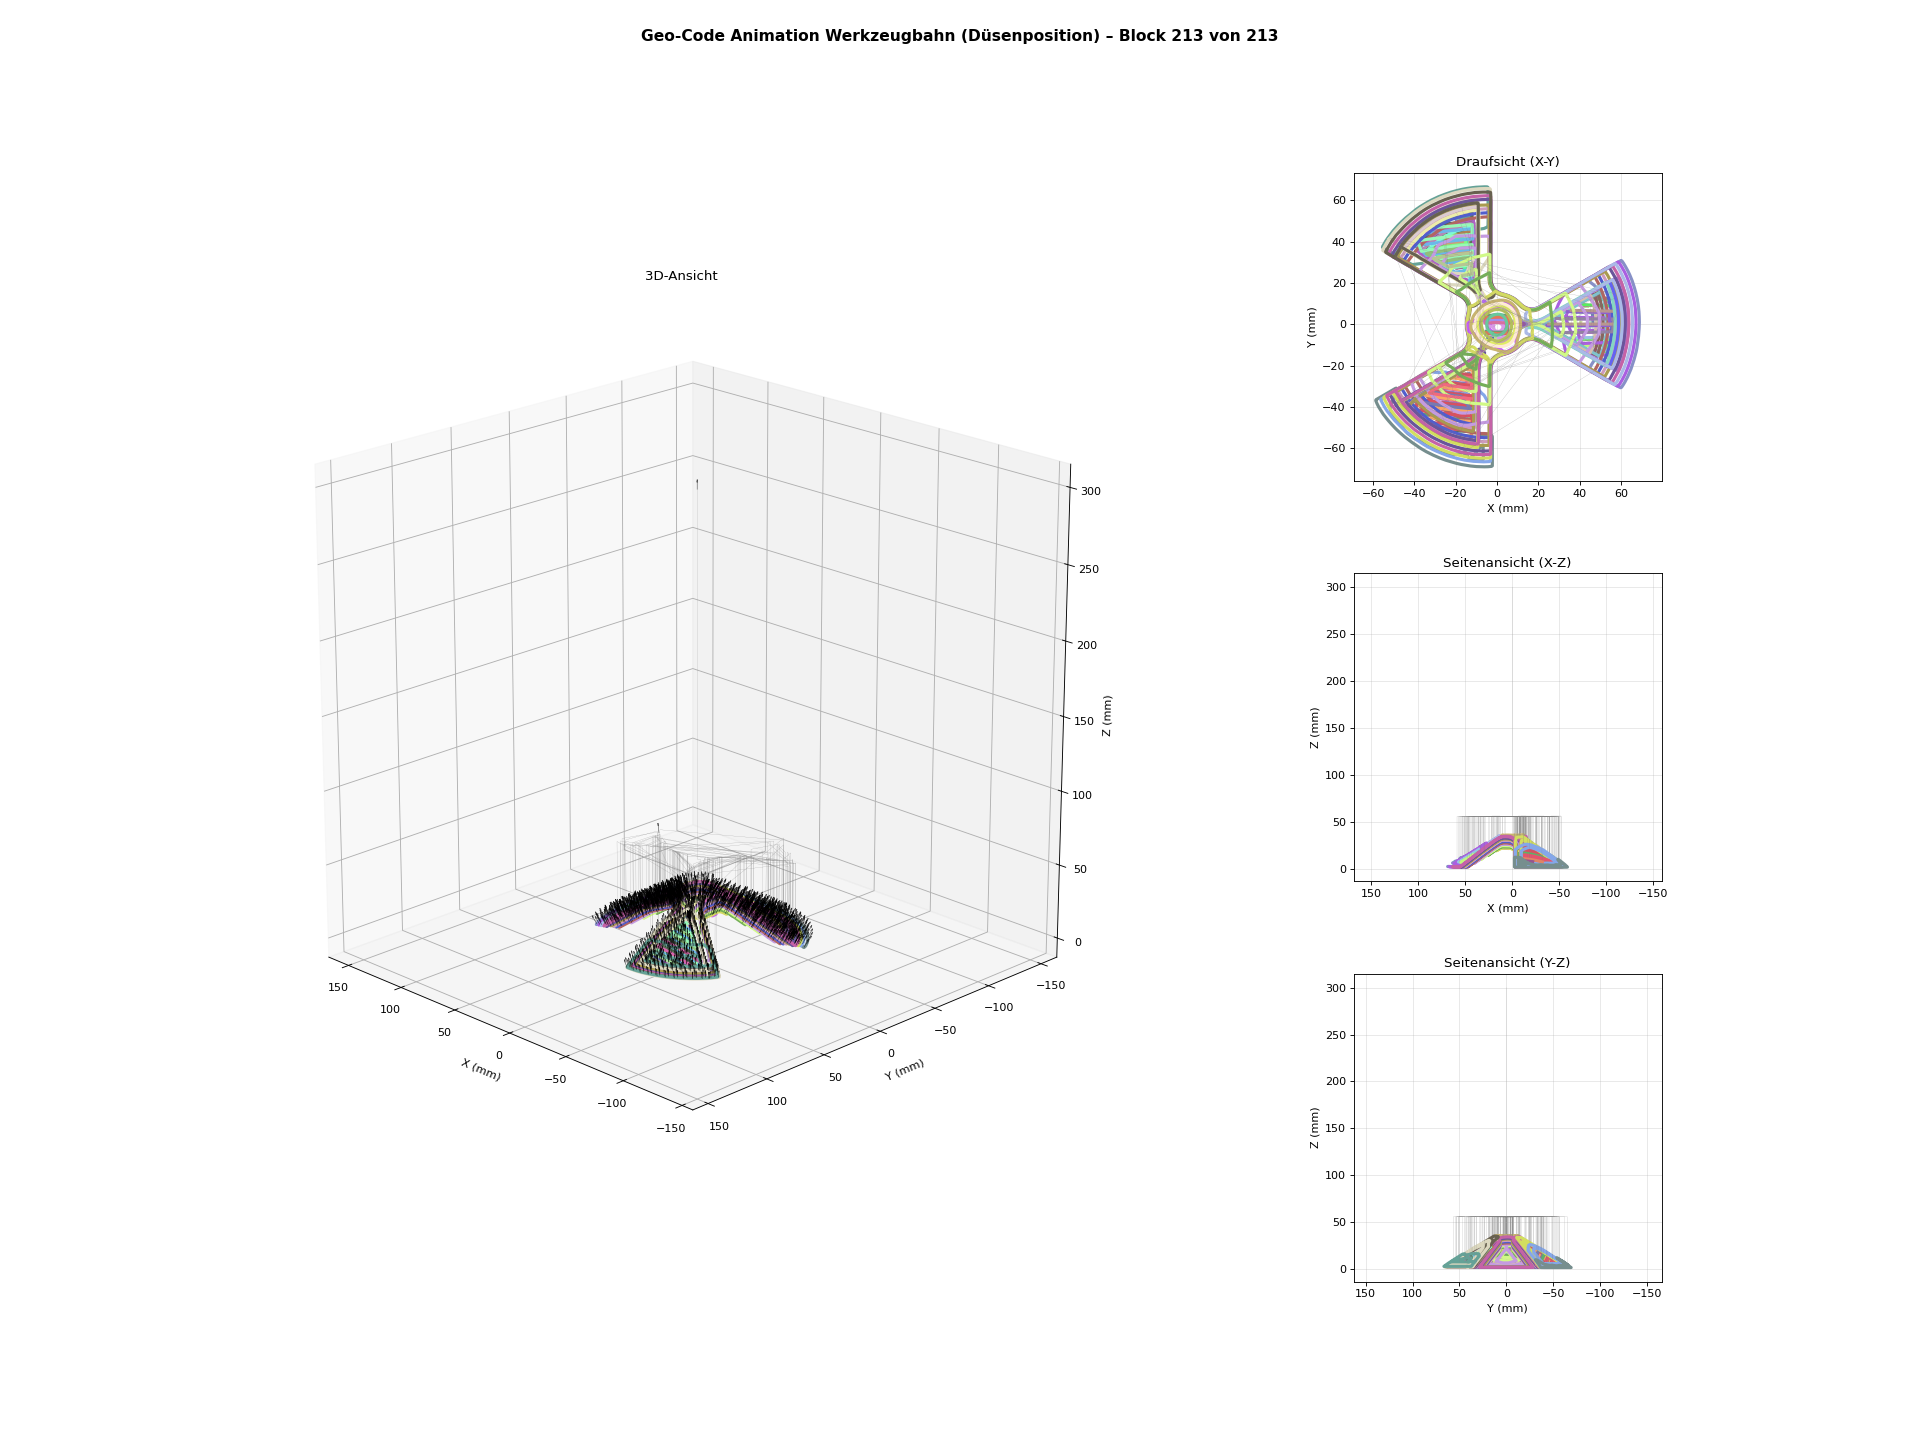
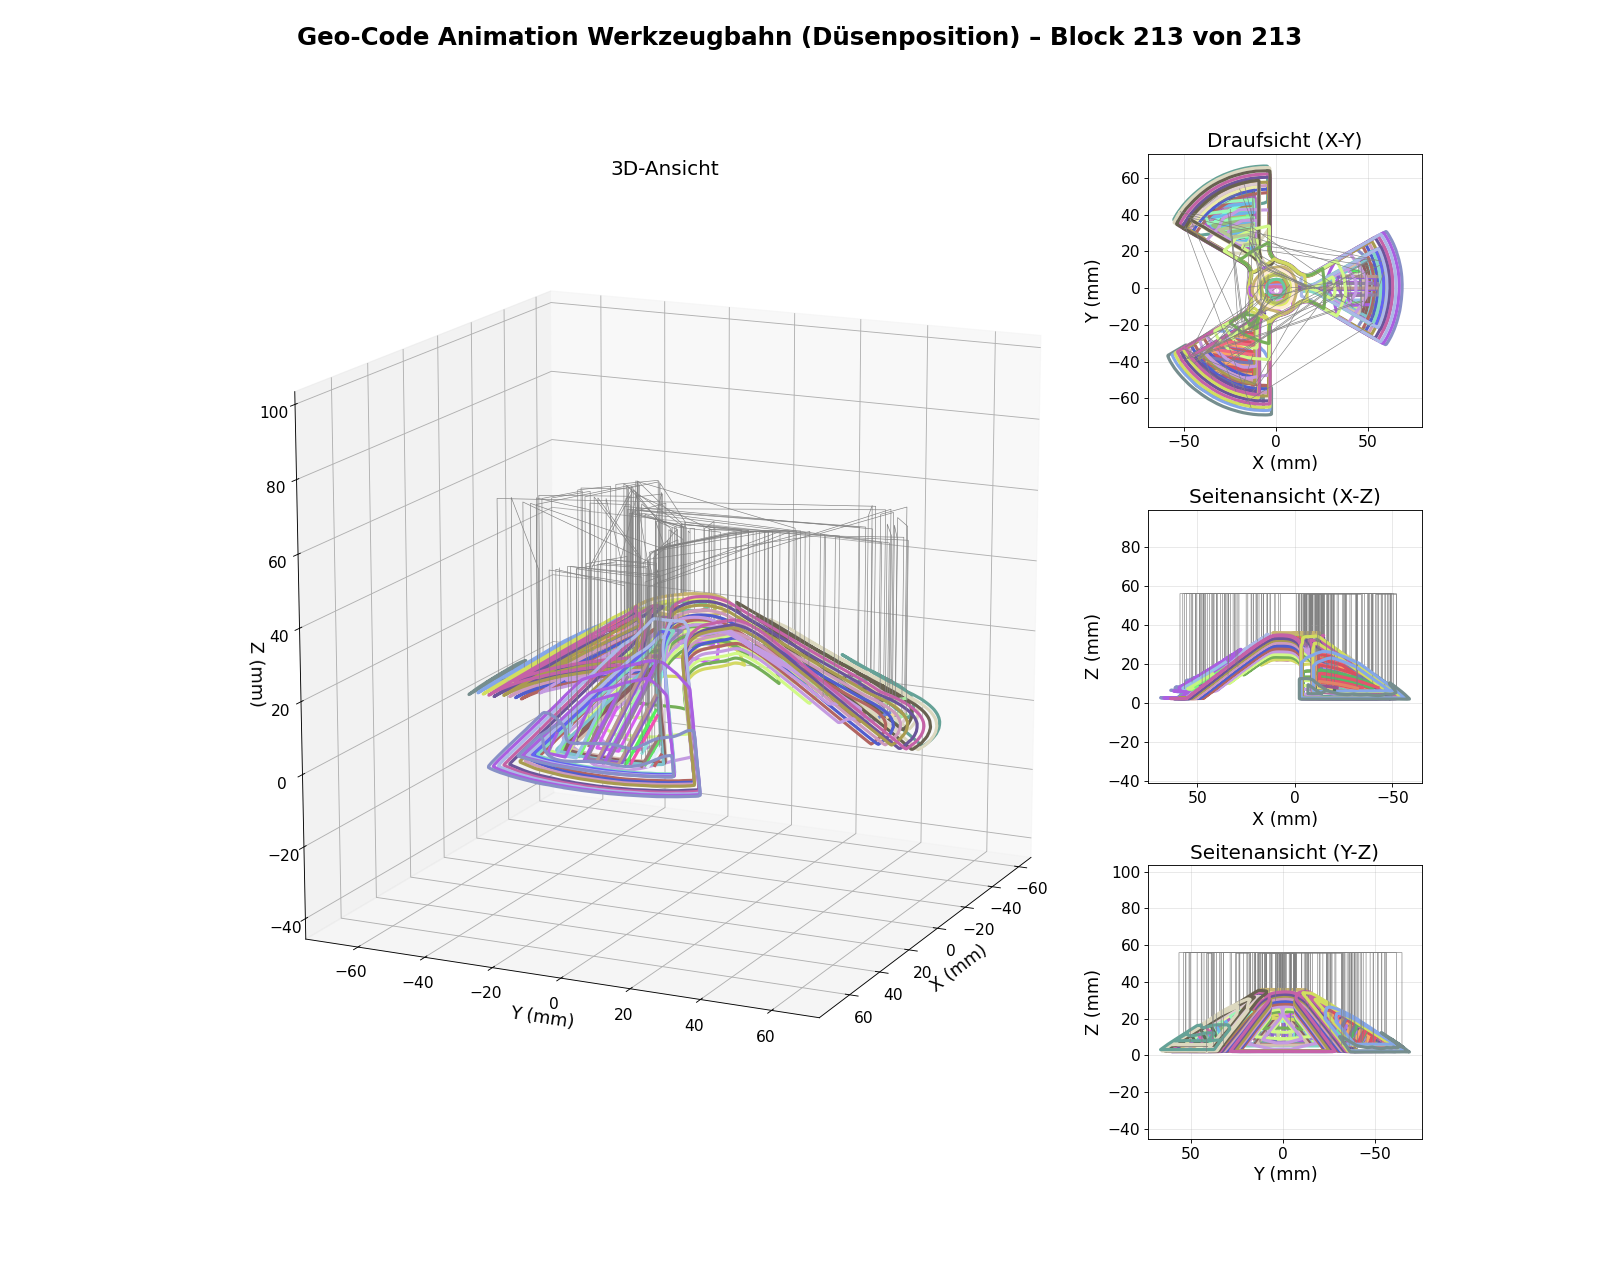
fixed geo visualisation

diff --git a/py_geo_code_visualisation.py b/py_geo_code_visualisation.py
@@ -7,6 +7,10 @@ from scipy.spatial.transform import Rotation
 import warnings
 warnings.filterwarnings('ignore')
 
+# Globale Schriftart für alle Matplotlib-Texte
+plt.rcParams['font.family'] = 'sans-serif'
+plt.rcParams['font.sans-serif'] = ['Open Sans', 'DejaVu Sans', 'Arial', 'sans-serif']
+
 # Ein-/Ausgabe
 INPUT_GEO_FILE = "output_geo_code/Kegel_v6_5x1_fine.geo"   # Pfad zur .geo Datei (relativ zum Skript)
 
@@ -14,11 +18,11 @@ INPUT_GEO_FILE = "output_geo_code/Kegel_v6_5x1_fine.geo"   # Pfad zur .geo Datei
 # 'platform'  → Plattform-Pose (Originalkoordinaten aus dem Geo-File)
 # 'toolpath'  → Werkzeugbahn / Düsenposition (Umkehrtransformation)
 # 'both'      → beide Modi nacheinander
-VISUALIZE_MODE = 'both'
+VISUALIZE_MODE = 'toolpath'
 
 # Kamera der 3D-Ansicht (Grad)
-CAMERA_ELEV_DEG = 20
-CAMERA_AZIM_DEG = 135
+CAMERA_ELEV_DEG = 15
+CAMERA_AZIM_DEG = 25
 
 # Beschleunigung: True = schnelle Darstellung via vorab erzeugte Linien-Artists.
 # Bei Problemen mit der Darstellung auf False setzen (Kompatibilitätsmodus).
@@ -34,10 +38,16 @@ DEFAULT_TEST_OFFSET = (0.0, 0.0, 0.0)
 
 # Liniendicke (in mm)
 LINE_WIDTH_PRINT  = 1.0   # Liniendicke beim Drucken, in mm
-LINE_WIDTH_TRAVEL = 0.05  # Liniendicke bei Leerfahrten, in mm
+LINE_WIDTH_TRAVEL = 0.2  # Liniendicke bei Leerfahrten, in mm
+
+# Schriftgrößen für Beschriftungen
+LABEL_FONT_SIZE = 16
+TITLE_FONT_SIZE = 18
+SUPTITLE_FONT_SIZE = 22
+TICK_FONT_SIZE = 14
 
 # Extrueder-Ausrichtungs-Pfeile
-SHOW_EXTRUDER_ORIENTATION_ARROWS = True
+SHOW_EXTRUDER_ORIENTATION_ARROWS = False
 ORIENTATION_ARROW_EVERY = 10   # jeden n-ten Punkt als Pfeil zeichnen
 ORIENTATION_ARROW_SCALE = 0.05 # Pfeillänge relativ zur Szenengröße
 
@@ -287,6 +297,10 @@ class GeoCodeVisualizer:
             moves = block['moves']
             coords = np.array([[m['x'], m['y'], m['z']] for m in moves], dtype=float)
 
+            # Entferne in der Visualisierung den ersten angefahrenen Punkt des Gesamtpfads.
+            if seq_idx == 0 and coords.shape[0] > 1:
+                coords = coords[1:]
+
             if block['extruder_on']:
                 color = shared_colors[print_idx]
                 print_idx += 1
@@ -366,8 +380,8 @@ class GeoCodeVisualizer:
 
         # Einmalige Figure; 3D-Achse wird pro Frame neu gezeichnet (Painter's Sort),
         # 2D-Achsen bleiben inkrementell mit zorder.
-        fig = plt.figure(figsize=(24, 18), dpi=dpi)
-        gs = fig.add_gridspec(nrows=3, ncols=2, width_ratios=[2, 1], height_ratios=[1, 1, 1], hspace=0.30, wspace=0.25)
+        fig = plt.figure(figsize=(20, 16), dpi=dpi)
+        gs = fig.add_gridspec(nrows=3, ncols=2, width_ratios=[3, 1], height_ratios=[1, 1, 1], hspace=0.3, wspace=0.0)
 
         # 3D Subplot nimmt ganze linke Spalte ein
         ax3d = fig.add_subplot(gs[:, 0], projection='3d')
@@ -381,46 +395,52 @@ class GeoCodeVisualizer:
 
         def _setup_ax3d(ax, title=''):
             """(Neu-)Einrichten der 3D-Achse nach cla()."""
-            ax.set_xlabel('X (mm)')
-            ax.set_ylabel('Y (mm)')
-            ax.set_zlabel('Z (mm)')
+            ax.set_xlabel('X (mm)', fontsize=LABEL_FONT_SIZE)
+            ax.set_ylabel('Y (mm)', fontsize=LABEL_FONT_SIZE)
+            ax.set_zlabel('Z (mm)', fontsize=LABEL_FONT_SIZE)
             ax.set_xlim(x3_min, x3_max)
             ax.set_ylim(y3_min, y3_max)
             ax.set_zlim(z3_min, z3_max)
             ax.set_box_aspect((1.0, 1.0, 1.0))
             ax.view_init(elev=ELEV, azim=AZIM)
+            ax.tick_params(axis='both', labelsize=TICK_FONT_SIZE)
             if title:
-                ax.set_title(title)
+                ax.set_title(title, fontsize=TITLE_FONT_SIZE)
 
         # Statisches Axis-Setup
         _setup_ax3d(ax3d)
 
         def _set_equal_2d_limits(ax, x_lo, x_hi, y_lo, y_hi):
-            """Setzt für eine 2D-Achse gleiche Einheiten per erweiterten Gleichbereich."""
+            """Setzt für eine 2D-Achse gleiche Einheiten und gleich große Achsrahmen."""
             x_center = 0.5 * (x_lo + x_hi)
             y_center = 0.5 * (y_lo + y_hi)
-            half_span = 0.5 * max(x_hi - x_lo, y_hi - y_lo, 1e-9)
-            ax.set_xlim(x_center - half_span, x_center + half_span)
-            ax.set_ylim(y_center - half_span, y_center + half_span)
+            x_span = max(x_hi - x_lo, 1e-9)
+            y_span = max(y_hi - y_lo, 1e-9)
+            ax.set_xlim(x_center - x_span * 0.5, x_center + x_span * 0.5)
+            ax.set_ylim(y_center - y_span * 0.5, y_center + y_span * 0.5)
             ax.set_aspect('equal', adjustable='box')
+            ax.set_box_aspect(1)
 
-        ax_xy.set_xlabel('X (mm)')
-        ax_xy.set_ylabel('Y (mm)')
+        ax_xy.set_xlabel('X (mm)', fontsize=LABEL_FONT_SIZE)
+        ax_xy.set_ylabel('Y (mm)', fontsize=LABEL_FONT_SIZE)
         _set_equal_2d_limits(ax_xy, x_min, x_max, y_min, y_max)
-        ax_xy.set_title('Draufsicht (X-Y)')
+        ax_xy.set_title('Draufsicht (X-Y)', fontsize=TITLE_FONT_SIZE)
+        ax_xy.tick_params(axis='both', labelsize=TICK_FONT_SIZE)
         ax_xy.grid(True, alpha=0.3)
 
-        ax_xz.set_xlabel('X (mm)')
-        ax_xz.set_ylabel('Z (mm)')
+        ax_xz.set_xlabel('X (mm)', fontsize=LABEL_FONT_SIZE)
+        ax_xz.set_ylabel('Z (mm)', fontsize=LABEL_FONT_SIZE)
         _set_equal_2d_limits(ax_xz, x_min, x_max, z_min, z_max)
-        ax_xz.set_title('Seitenansicht (X-Z)')
+        ax_xz.set_title('Seitenansicht (X-Z)', fontsize=TITLE_FONT_SIZE)
+        ax_xz.tick_params(axis='both', labelsize=TICK_FONT_SIZE)
         ax_xz.grid(True, alpha=0.3)
         ax_xz.invert_xaxis()
 
-        ax_yz.set_xlabel('Y (mm)')
-        ax_yz.set_ylabel('Z (mm)')
+        ax_yz.set_xlabel('Y (mm)', fontsize=LABEL_FONT_SIZE)
+        ax_yz.set_ylabel('Z (mm)', fontsize=LABEL_FONT_SIZE)
         _set_equal_2d_limits(ax_yz, y_min, y_max, z_min, z_max)
-        ax_yz.set_title('Seitenansicht (Y-Z)')
+        ax_yz.set_title('Seitenansicht (Y-Z)', fontsize=TITLE_FONT_SIZE)
+        ax_yz.tick_params(axis='both', labelsize=TICK_FONT_SIZE)
         ax_yz.grid(True, alpha=0.3)
         ax_yz.invert_xaxis()
 
@@ -485,7 +505,7 @@ class GeoCodeVisualizer:
                         pb['arrow_3d'].set_visible(True)
                 last_visible_seq = block_idx
 
-                ax3d.set_title("3D-Ansicht")
+                ax3d.set_title("3D-Ansicht", fontsize=TITLE_FONT_SIZE)
             else:
                 coords = prep['coords']
                 color = prep['color']
@@ -524,7 +544,7 @@ class GeoCodeVisualizer:
                            zorder=prep['zorder_yz'])
             fig.suptitle(
                 f'Geo-Code Animation {coord_label} – Block {block_idx_text} von {len(prepared_blocks)}',
-                fontsize=14, fontweight='bold'
+                fontsize=SUPTITLE_FONT_SIZE, fontweight='bold'
             )
 
             fig.canvas.draw()